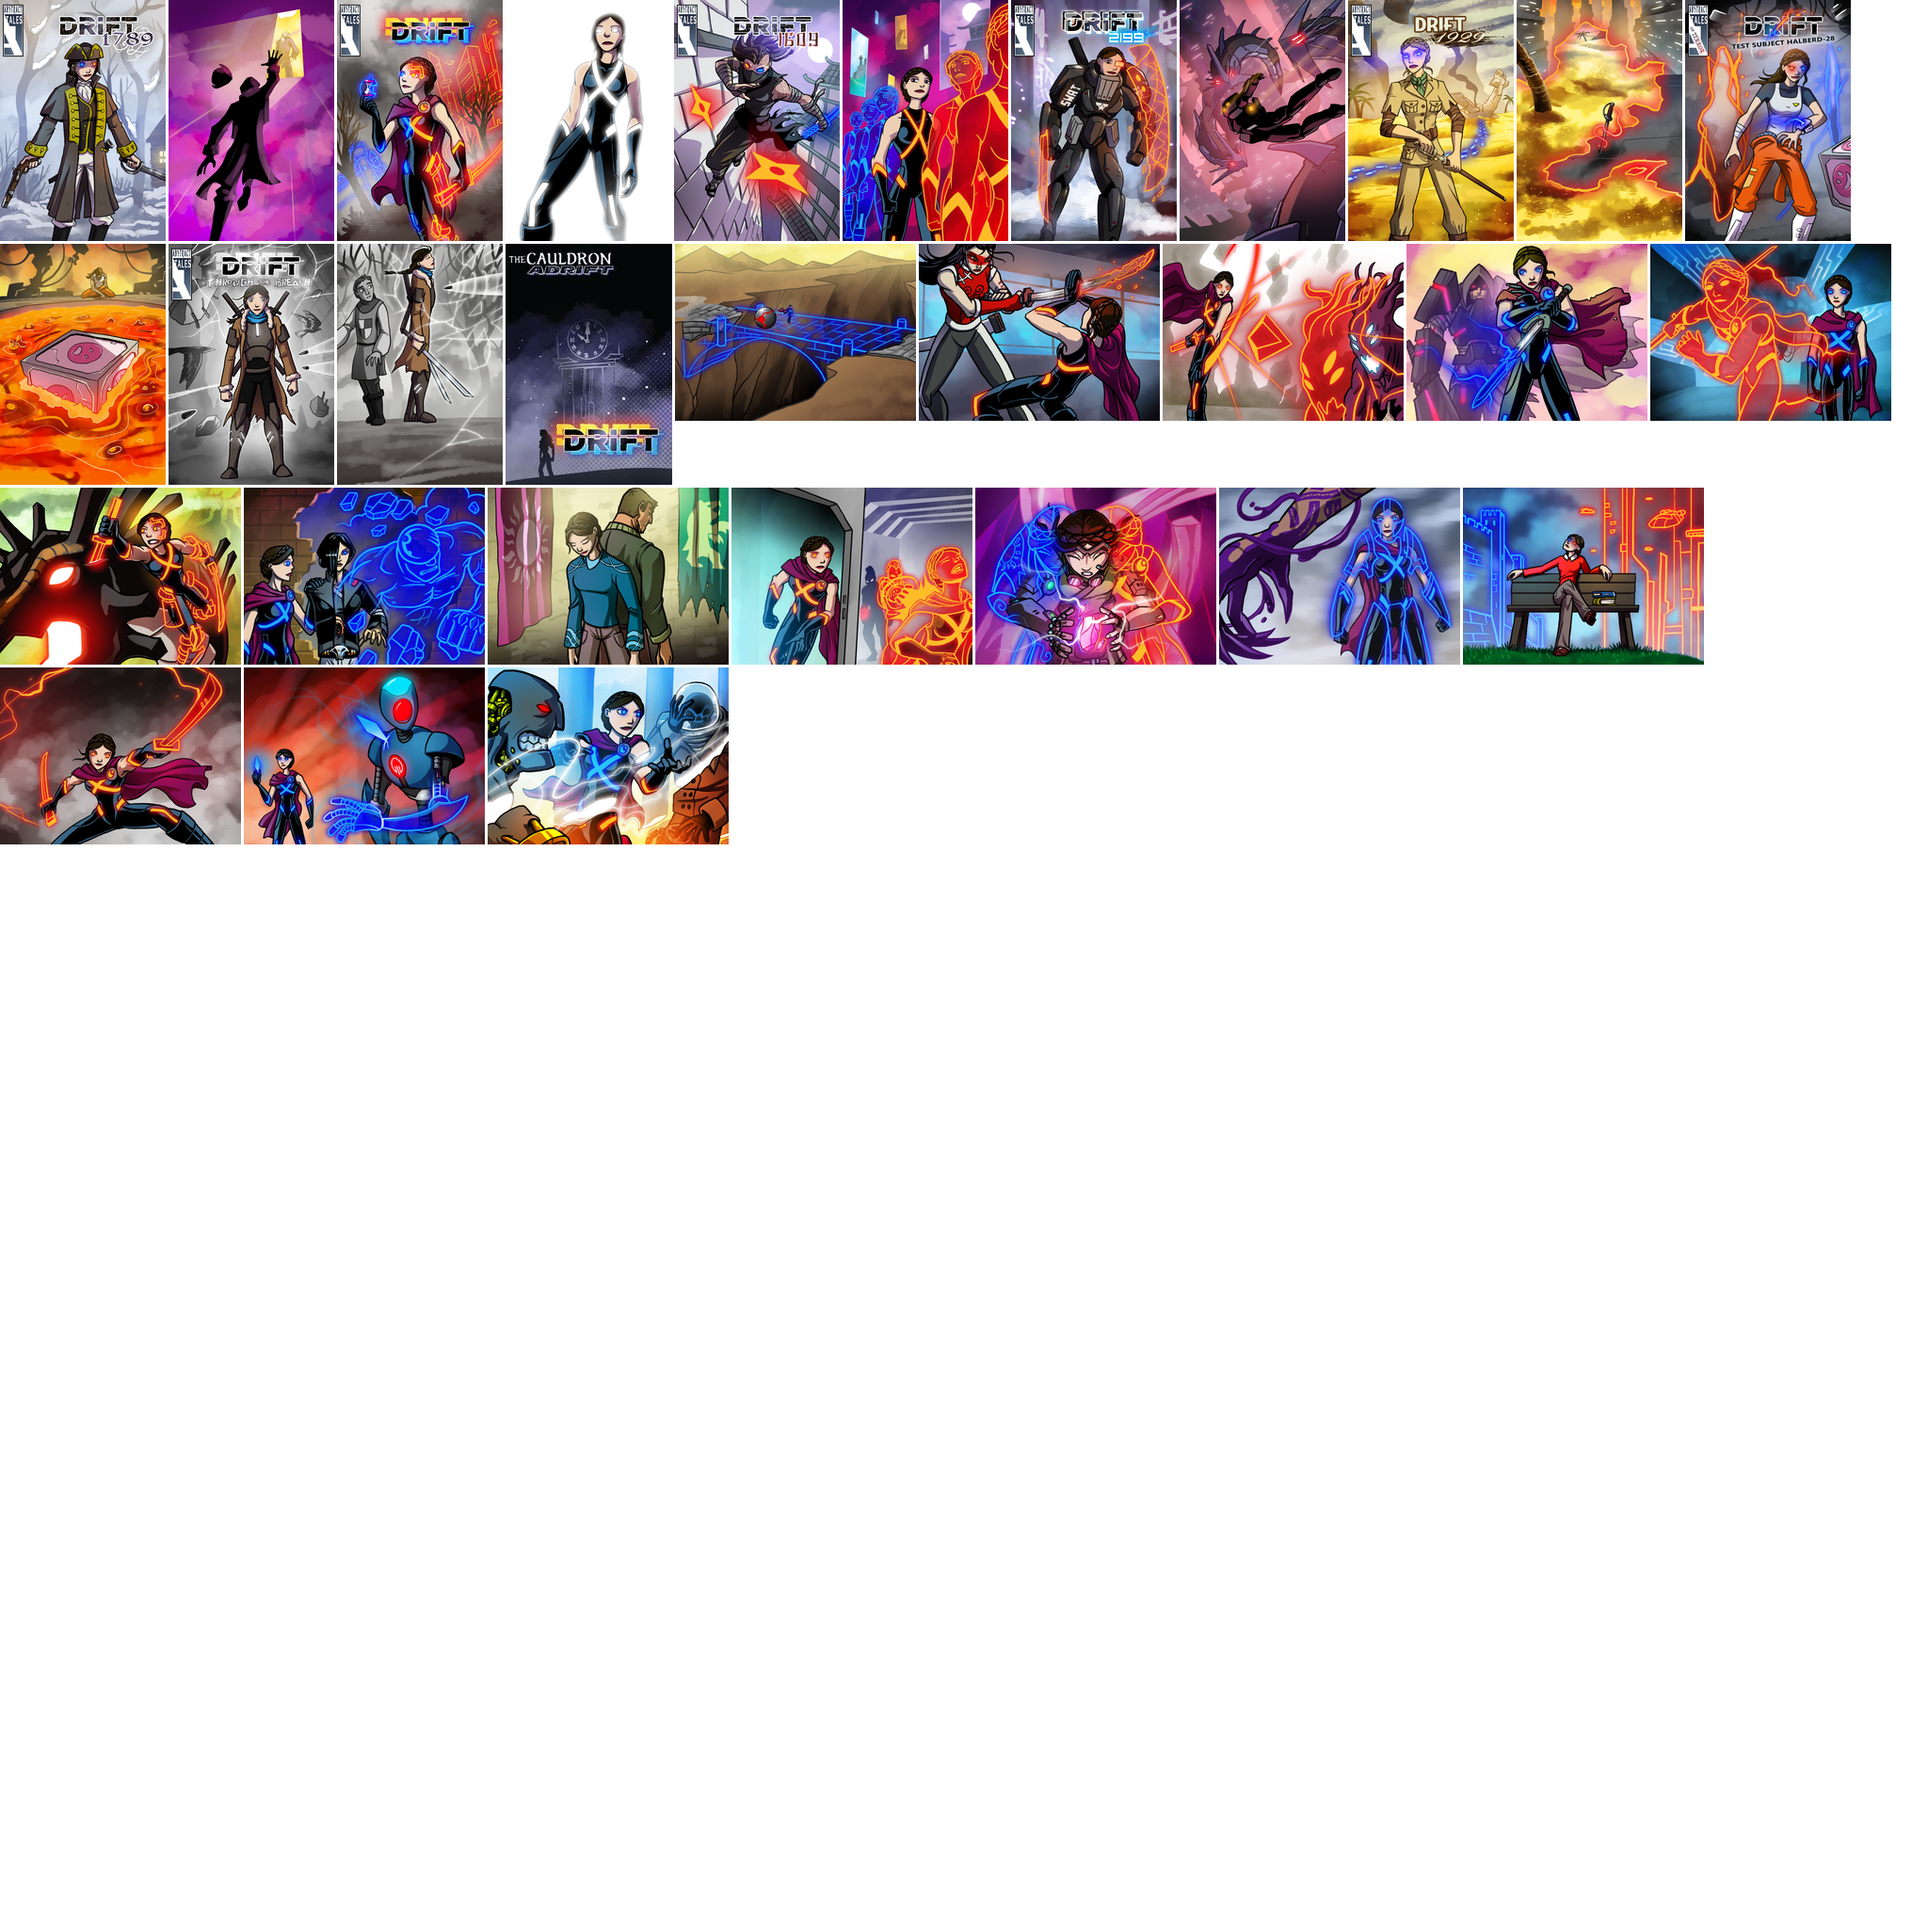
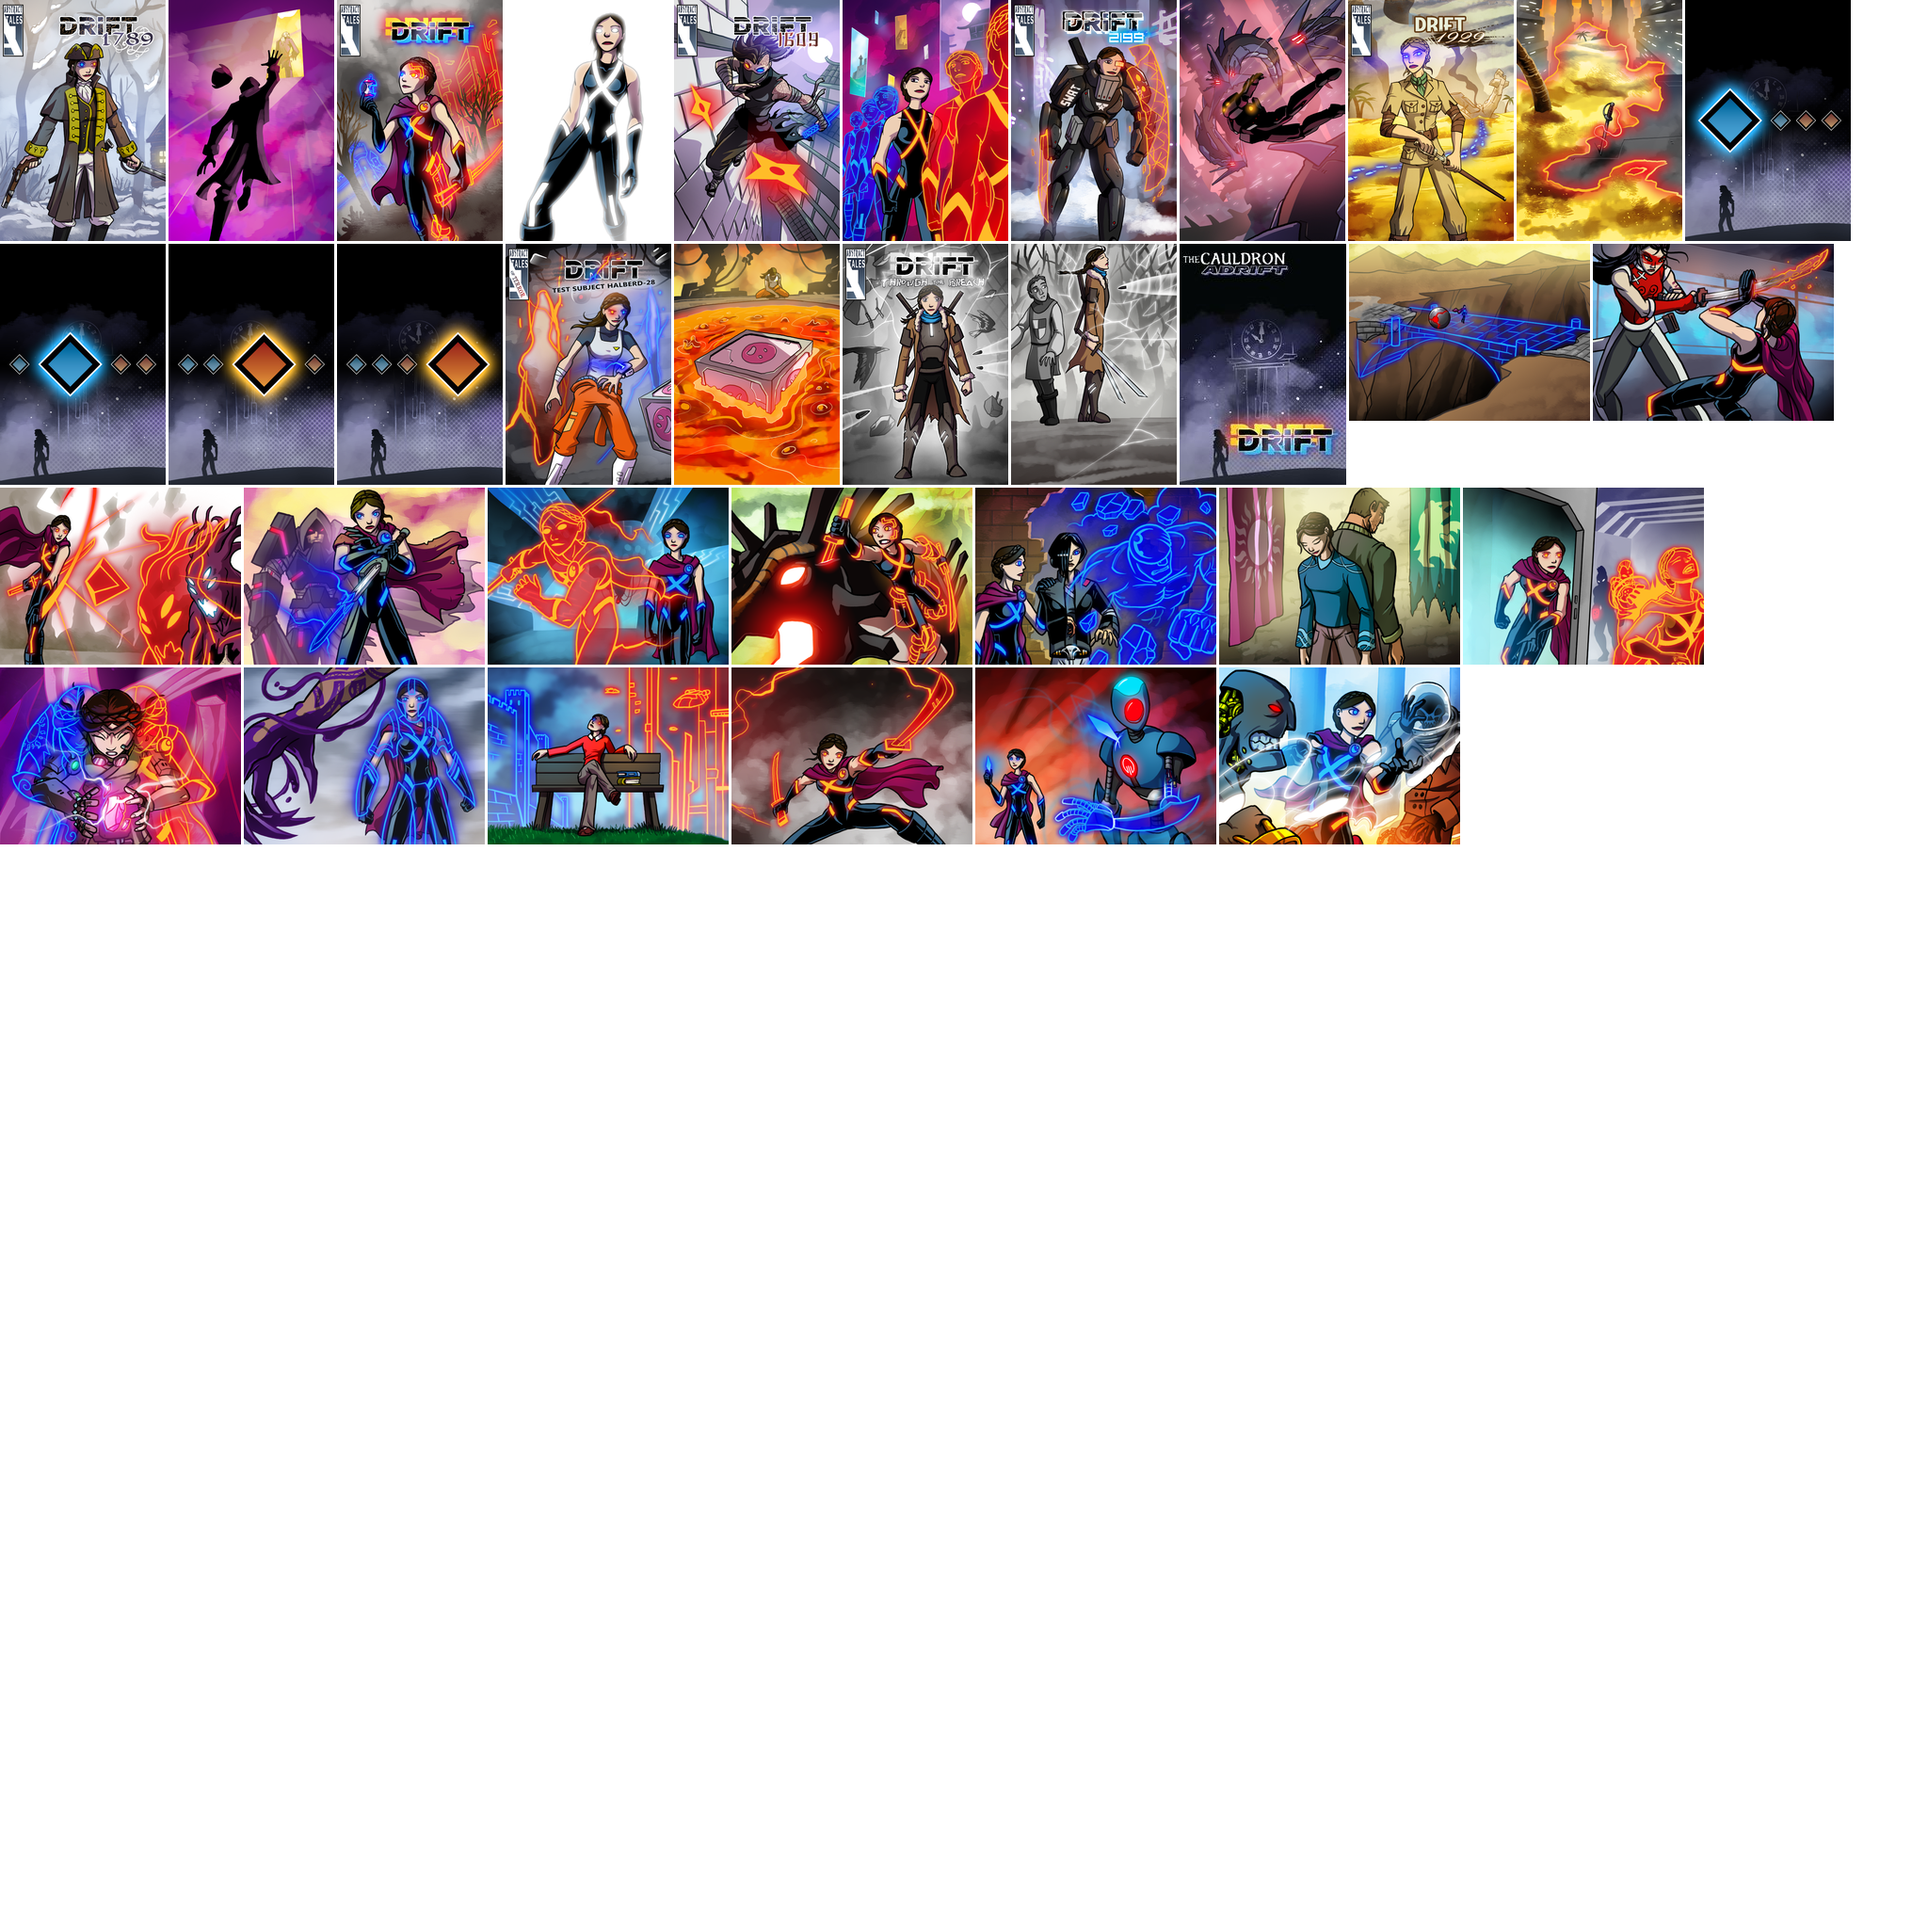
Shift Track development

Changed region(s): [[0.0, 0.0, 1.0, 0.4375]]

diff --git a/CauldronMods/Controller/Heroes/Drift/CharacterCards/Base/DriftCharacterCardController.cs b/CauldronMods/Controller/Heroes/Drift/CharacterCards/Base/DriftCharacterCardController.cs
@@ -18,6 +18,9 @@ namespace Cauldron.Drift
         protected const string HasShifted = "HasShifted";
         protected const string ShiftTrack = "ShiftTrack";
 
+        private int totalShifts = 0;
+        public int TotalShifts { get => totalShifts; set => totalShifts = value; }
+
         public override IEnumerator UsePower(int index = 0)
         {
             int hpNumeral = base.GetPowerNumeral(0, 1);
@@ -150,38 +153,7 @@ namespace Cauldron.Drift
 
         public Card GetShiftTrack()
         {
-            return base.FindCardsWhere(new LinqCardCriteria((Card c) => c.SharedIdentifier == ShiftTrack && c.IsInPlayAndHasGameText)).FirstOrDefault();
-        }
-
-        public IEnumerator Shift(int direction)
-        {
-            //Ensures not shifting off track
-            if (4 > this.CurrentShiftPosition() + direction && this.CurrentShiftPosition() + direction > 1)
-            {
-                base.SetCardPropertyToTrueIfRealAction(HasShifted);
-                //Add(Right) or Subtract(Left) a token
-                IEnumerator coroutine = base.GameController.AddTokensToPool(this.GetShiftPool(), 1, base.GetCardSource());
-                if (base.UseUnityCoroutines)
-                {
-                    yield return base.GameController.StartCoroutine(coroutine);
-                }
-                else
-                {
-                    base.GameController.ExhaustCoroutine(coroutine);
-                }
-
-                //Switch to the new card
-                coroutine = base.GameController.SwitchCards(this.GetShiftTrack(), base.FindCard(ShiftTrack + this.CurrentShiftPosition(), false));
-                if (base.UseUnityCoroutines)
-                {
-                    yield return base.GameController.StartCoroutine(coroutine);
-                }
-                else
-                {
-                    base.GameController.ExhaustCoroutine(coroutine);
-                }
-            }
-            yield break;
+            return base.FindCardsWhere((Card c) => c.SharedIdentifier == ShiftTrack && c.IsInPlayAndHasGameText).FirstOrDefault();
         }
 
         public IEnumerator ShiftL()
@@ -190,7 +162,7 @@ namespace Cauldron.Drift
             if (this.CurrentShiftPosition() > 1)
             {
                 base.SetCardPropertyToTrueIfRealAction(HasShifted);
-                IEnumerator coroutine = base.GameController.AddTokensToPool(this.GetShiftPool(), 1, base.GetCardSource());
+                IEnumerator coroutine = base.GameController.RemoveTokensFromPool(this.GetShiftPool(), 1, cardSource: base.GetCardSource());
                 if (base.UseUnityCoroutines)
                 {
                     yield return base.GameController.StartCoroutine(coroutine);
@@ -210,6 +182,8 @@ namespace Cauldron.Drift
                 {
                     base.GameController.ExhaustCoroutine(coroutine);
                 }
+
+                totalShifts++;
             }
             else
             {
@@ -249,7 +223,7 @@ namespace Cauldron.Drift
             if (this.CurrentShiftPosition() < 4)
             {
                 base.SetCardPropertyToTrueIfRealAction(HasShifted);
-                IEnumerator coroutine = base.GameController.RemoveTokensFromPool(this.GetShiftPool(), 1, cardSource: base.GetCardSource());
+                IEnumerator coroutine = base.GameController.AddTokensToPool(this.GetShiftPool(), 1, cardSource: base.GetCardSource());
                 if (base.UseUnityCoroutines)
                 {
                     yield return base.GameController.StartCoroutine(coroutine);
@@ -269,6 +243,8 @@ namespace Cauldron.Drift
                 {
                     base.GameController.ExhaustCoroutine(coroutine);
                 }
+
+                totalShifts++;
             }
             else
             {

diff --git a/CauldronMods/Controller/Heroes/Drift/CharacterCards/DriftTurnTakerController.cs b/CauldronMods/Controller/Heroes/Drift/CharacterCards/DriftTurnTakerController.cs
@@ -2,6 +2,7 @@
 using Handelabra.Sentinels.Engine.Model;
 using System;
 using System.Collections;
+using System.Collections.Generic;
 using System.Linq;
 
 namespace Cauldron.Drift
@@ -12,12 +13,12 @@ namespace Cauldron.Drift
         {
 
         }
+        protected const string ShiftTrack = "ShiftTrack";
 
         public override IEnumerator StartGame()
         {
-            //Put Shift Track into play
-            Card shiftTrack1 = TurnTaker.FindCard("ShiftTrack1", realCardsOnly: false);
-            IEnumerator coroutine = base.GameController.PlayCard(this, shiftTrack1);
+            List<SelectCardDecision> cardDecisions = new List<SelectCardDecision>();
+            IEnumerator coroutine = base.GameController.SelectCardAndStoreResults(this, SelectionType.AddTokens, new LinqCardCriteria((Card c) => c.SharedIdentifier == ShiftTrack, "Shift Track Position"), cardDecisions, false, includeRealCardsOnly: false);
             if (base.UseUnityCoroutines)
             {
                 yield return base.GameController.StartCoroutine(coroutine);
@@ -27,9 +28,51 @@ namespace Cauldron.Drift
                 base.GameController.ExhaustCoroutine(coroutine);
             }
 
-            //Put a token in the pool to begin tracking active card
-            TokenPool pool1 = shiftTrack1.FindTokenPool("ShiftPool");
-            coroutine = base.GameController.AddTokensToPool(pool1, 1, new CardSource(base.CharacterCardController));
+            coroutine = this.SetupShiftTrack(cardDecisions.FirstOrDefault());
+            if (base.UseUnityCoroutines)
+            {
+                yield return base.GameController.StartCoroutine(coroutine);
+            }
+            else
+            {
+                base.GameController.ExhaustCoroutine(coroutine);
+            }
+            yield break;
+        }
+
+        private IEnumerator SetupShiftTrack(SelectCardDecision decision)
+        {
+            Card selectedTrack = decision.SelectedCard;
+            IEnumerator coroutine = base.GameController.PlayCard(this, selectedTrack);
+            if (base.UseUnityCoroutines)
+            {
+                yield return base.GameController.StartCoroutine(coroutine);
+            }
+            else
+            {
+                base.GameController.ExhaustCoroutine(coroutine);
+            }
+
+            CardController selectTrackController = base.FindCardController(selectedTrack);
+            int tokensToAdd = 0;
+            if (selectTrackController is ShiftTrack1CardController)
+            {
+                tokensToAdd = 1;
+            }
+            else if (selectTrackController is ShiftTrack2CardController)
+            {
+                tokensToAdd = 2;
+            }
+            else if (selectTrackController is ShiftTrack3CardController)
+            {
+                tokensToAdd = 3;
+            }
+            else if (selectTrackController is ShiftTrack4CardController)
+            {
+                tokensToAdd = 4;
+            }
+
+            coroutine = base.GameController.AddTokensToPool(selectedTrack.FindTokenPool("ShiftPool"), tokensToAdd, new CardSource(base.CharacterCardController));
             if (base.UseUnityCoroutines)
             {
                 yield return base.GameController.StartCoroutine(coroutine);

diff --git a/Testing/Heroes/DriftTests.cs b/Testing/Heroes/DriftTests.cs
@@ -98,7 +98,8 @@ namespace CauldronTests
         {
             SetupGameController("BaronBlade", "Cauldron.Drift", "Haka", "Bunker", "TheScholar", "Megalopolis");
             StartGame();
-            var a = drift.TurnTaker.CharacterCards;
+            DecisionSelectFunctions = new int?[] { 0 };
+
             UsePower(drift);
         }
     }
